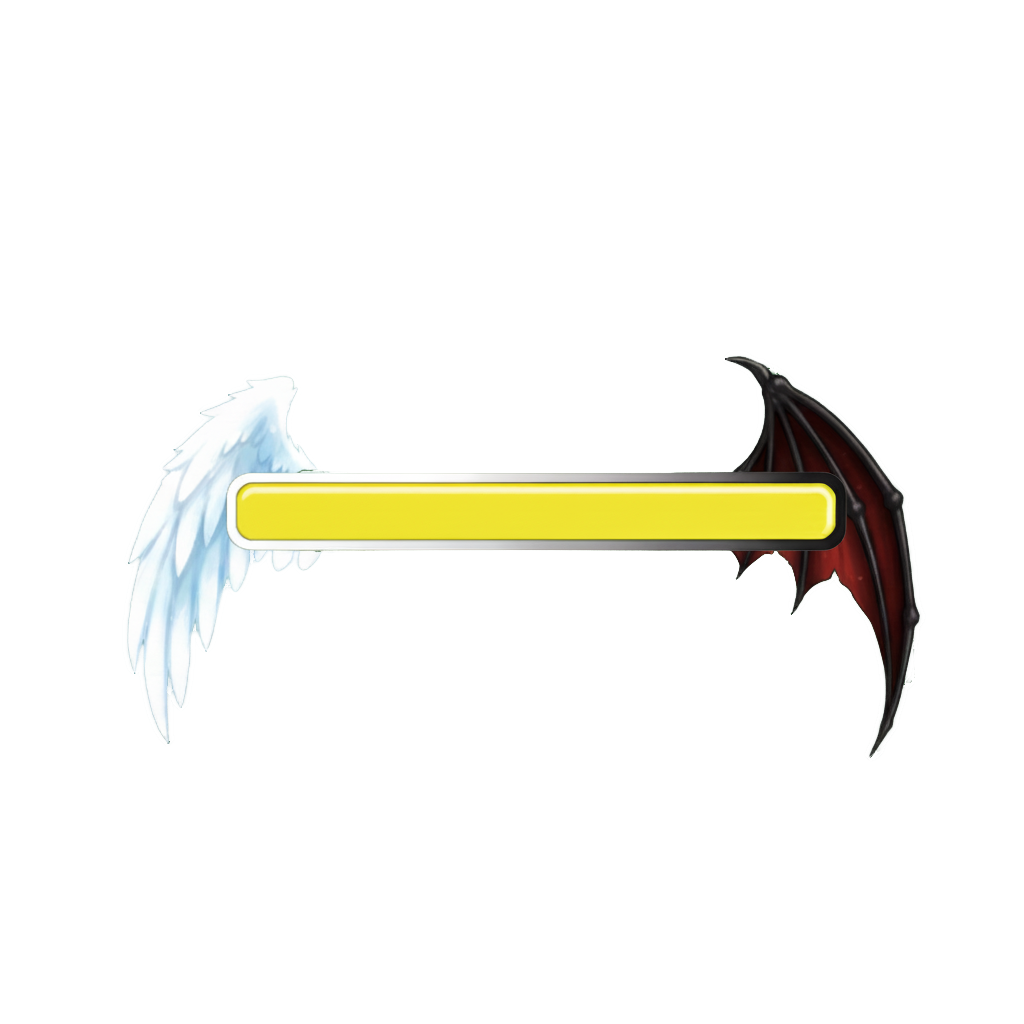
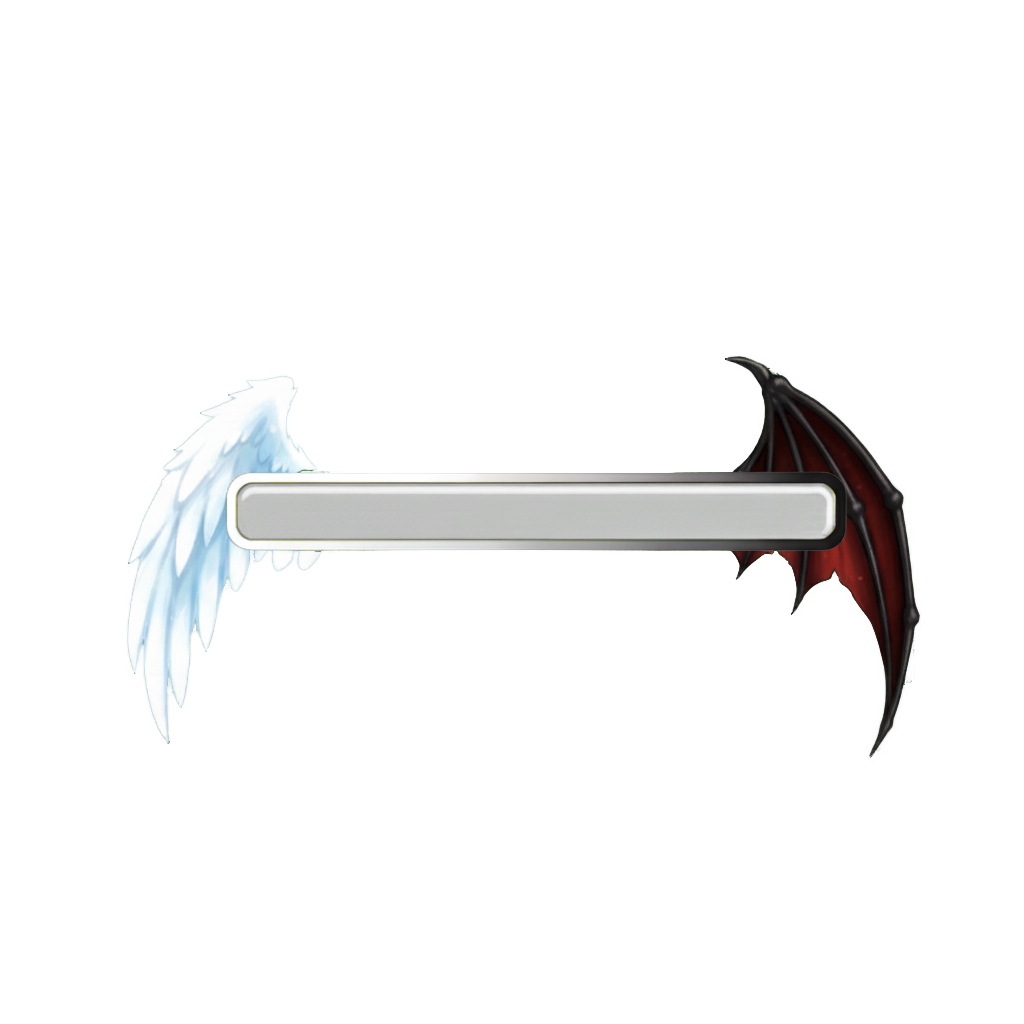
修复了罪孽条UI相关问题

Changed region(s): [[0.2188, 0.4688, 0.8125, 0.5312]]

diff --git a/src/main/java/SS/UI/Sinsbar.java b/src/main/java/SS/UI/Sinsbar.java
@@ -10,10 +10,22 @@ import com.megacrit.cardcrawl.helpers.ImageMaster;
 
 import SS.power.SinsPower;
 
-public class Sinsbar {
-    private static final float HB_Y_OFFSET = -80.0F * Settings.scale; // 距离头顶的高度
-    private static final float BAR_WIDTH = 500.0F * Settings.scale;
-    private static final float BAR_HEIGHT = 500.0F * Settings.scale;
+public class Sinsbar {// 图片原始尺寸数据 (根据你的测量)
+    private static final float RAW_TOTAL_WIDTH = 1024.0F; // 227 + 619 + 178
+    private static final float RAW_BAR_WIDTH = 619.0F; // 中间有效长度
+    private static final float RAW_OFFSET_X = 227.0F; // 左侧空白长度
+    private static final float RAW_HEIGHT = 1024.0F; // 实际图片高度
+    // 修改这个值来整体缩放 UI (0.5F = 一半大小, 1.0F = 原大小)
+    private static final float UI_SCALE = 0.6F;
+
+    // 经过游戏缩放后的尺寸 (用于实际绘制计算)
+    private static final float TOTAL_WIDTH = RAW_TOTAL_WIDTH * Settings.scale * UI_SCALE;
+    private static final float MAX_BAR_WIDTH = RAW_BAR_WIDTH * Settings.scale * UI_SCALE;
+    private static final float BAR_OFFSET_X = RAW_OFFSET_X * Settings.scale * UI_SCALE;
+    private static final float BAR_HEIGHT = RAW_HEIGHT * Settings.scale * UI_SCALE;
+
+    // 2. 实际进度条的最大宽度 (不包含翅膀)
+    private static final float HB_Y_OFFSET = -10.0F * Settings.scale * UI_SCALE; // 距离头顶的高度
     private static final float MIN_SIN = -50.0F;
     private static final float MAX_SIN = 50.0F;
     private static final float TOTAL_RANGE = MAX_SIN - MIN_SIN;
@@ -78,58 +90,73 @@ public class Sinsbar {
         }
 
         if (AbstractDungeon.getCurrRoom().phase != com.megacrit.cardcrawl.rooms.AbstractRoom.RoomPhase.COMBAT)
-            return;
-
-        // 计算位置
-        float x = AbstractDungeon.player.hb.cX - (BAR_WIDTH / 2.0F);
-        float y = AbstractDungeon.player.hb.cY + (AbstractDungeon.player.hb.height / 2.0F) + HB_Y_OFFSET;
+            return;// -----------------------------------------------------------
+        // 步骤 A: 计算背景图的位置
+        // -----------------------------------------------------------
+        // 我们希望整个长条图(1024宽) 在玩家头顶居中
+        float bgX = AbstractDungeon.player.hb.cX - (TOTAL_WIDTH / 2.0F);
+        float bgY = AbstractDungeon.player.hb.cY + HB_Y_OFFSET;
 
         sb.setColor(Color.WHITE);
-        sb.draw(bgTexture, x, y, BAR_WIDTH, BAR_HEIGHT);
+        // 绘制完整的背景 (带翅膀)
+        sb.draw(bgTexture, bgX, bgY, TOTAL_WIDTH, BAR_HEIGHT);
 
-        // --- 核心修改：计算百分比 ---
-
-        // 假设 currentVal 是 0，则 (0 + 50) / 100 = 0.5 (半满)
-        // 假设 currentVal 是 -50，则 (-50 + 50) / 100 = 0.0 (空)
+        // -----------------------------------------------------------
+        // 步骤 B: 计算并绘制填充条
+        // -----------------------------------------------------------
+        // 计算百分比 (-50到50 映射到 0.0到1.0)
         float percentage = (this.currentVal - MIN_SIN) / TOTAL_RANGE;
-
-        // 安全钳制，防止越界
         if (percentage > 1.0F)
             percentage = 1.0F;
         if (percentage < 0.0F)
             percentage = 0.0F;
 
         if (percentage > 0) {
+            // 1. 填充条的起始 X 坐标 = 背景图左边缘 + 左侧空白(227缩放后)
+            float fillX = bgX + BAR_OFFSET_X;
+
+            // 2. 当前应该显示的宽度 = 最大宽度(619缩放后) * 百分比
+            float currentRenderWidth = MAX_BAR_WIDTH * percentage;
+
+            // 3. 纹理截取宽度 (你的填充图原始宽度应该是 619px)
+            int srcWidth = fillTexture.getWidth();
+            int srcRegionWidth = (int) (srcWidth * percentage);
+
+            // 绘制逻辑
+
             sb.draw(fillTexture,
-                    x, y,
-                    BAR_WIDTH * percentage, // 宽度根据比例计算
-                    BAR_HEIGHT);
+                    fillX, bgY, // 屏幕坐标：严格卡在左侧空白之后
+                    0, 0, // 旋转原点
+                    currentRenderWidth, BAR_HEIGHT, // 屏幕尺寸：动态变宽
+                    1.0F, 1.0F, // 缩放
+                    0, // 旋转
+                    0, 0, // srcX, srcY: 从图片最左侧开始切
+                    srcRegionWidth, fillTexture.getHeight(), // srcW, srcH: 切多少
+                    false, false);
+
         }
 
-        // 1. 决定显示什么数字
-        // 建议显示 targetVal (真实层数)，因为 currentVal 是浮点数动画，
-        // 显示 decimals (如 10.45) 会很乱，显示跳变的整数动画也不太直观。
+        // -----------------------------------------------------------
+        // 步骤 C: 绘制文字 (位置修正)
+        // -----------------------------------------------------------
+        // 注意：因为左右两边的翅膀不一样长 (227 vs 178)，
+        // 所以"整个图片的中心"并不是"进度条的中心"。
+        // 我们需要手动计算进度条的几何中心。
+
+        // 进度条中心X = 填充条起点 + (总长度的一半)
+        float textX = bgX + BAR_OFFSET_X + (MAX_BAR_WIDTH / 2.0F);
+        float textY = bgY + (BAR_HEIGHT / 2.0F);
+
         int displayNum = (int) this.targetVal;
-        String msg = String.valueOf(Math.abs(displayNum)) + "/"
-                + (displayNum > 0 ? String.valueOf((int) MAX_SIN) : String.valueOf((int) -MIN_SIN));
+        String msg = String.valueOf(displayNum);
 
-        // 2. 决定文字颜色 (可选)
-        // 比如：正数绿色，负数红色，0 白色
+        // 简单的颜色逻辑
         Color textColor = Color.WHITE;
-        if (displayNum > 0) {
-            textColor = Color.RED; // 或者 Settings.GREEN_TEXT_COLOR
-        } else if (displayNum < 0) {
-            textColor = Color.BLUE; // 或者 Settings.RED_TEXT_COLOR
-        }
+        if (displayNum > 0)
+            textColor = Color.GREEN;
+        if (displayNum < 0)
+            textColor = Color.RED;
 
-        // 3. 绘制文字
-        // 参数：画笔, 字体, 文字内容, 中心X, 中心Y, 颜色
-        FontHelper.renderFontCentered(
-                sb,
-                FontHelper.powerAmountFont, // 这是一个比较适合小数值的字体
-                msg,
-                x + (BAR_WIDTH / 2.0F), // 条的中心 X
-                y + (BAR_HEIGHT / 2.0F), // 条的中心 Y
-                textColor);
+        FontHelper.renderFontCentered(sb, FontHelper.powerAmountFont, msg, textX, textY, textColor, UI_SCALE * 1.5F);
     }
 }
